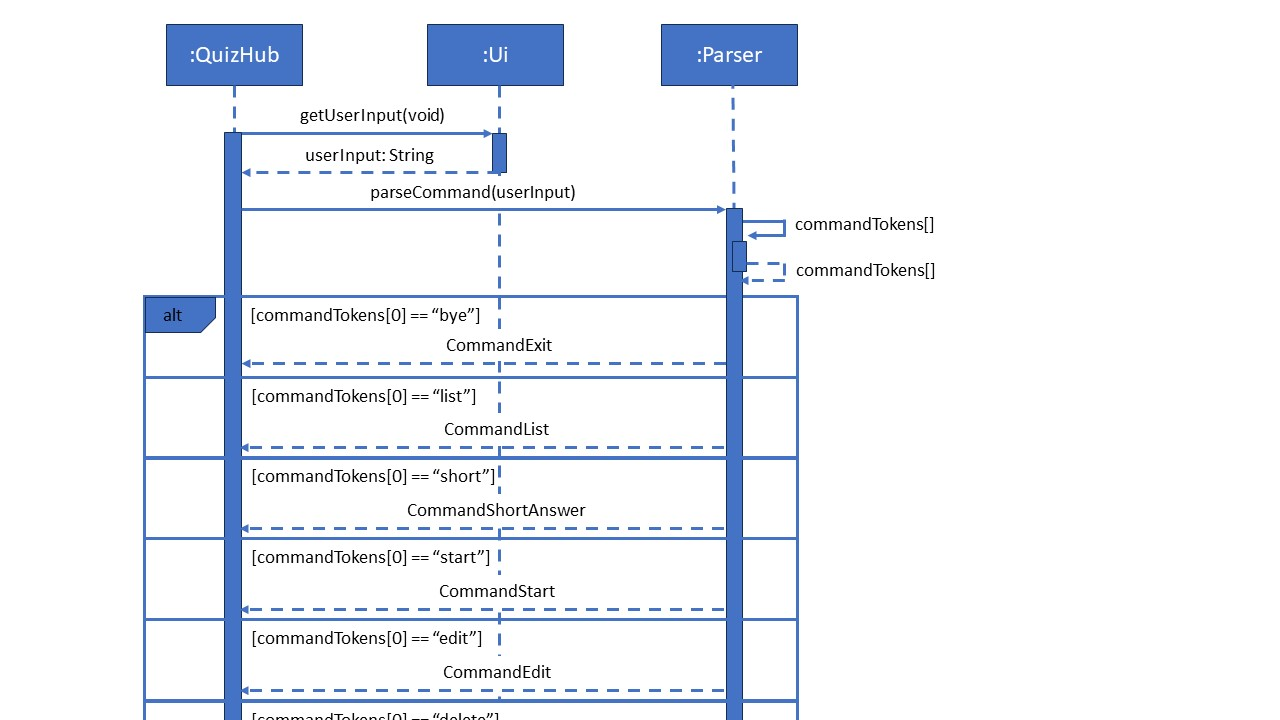
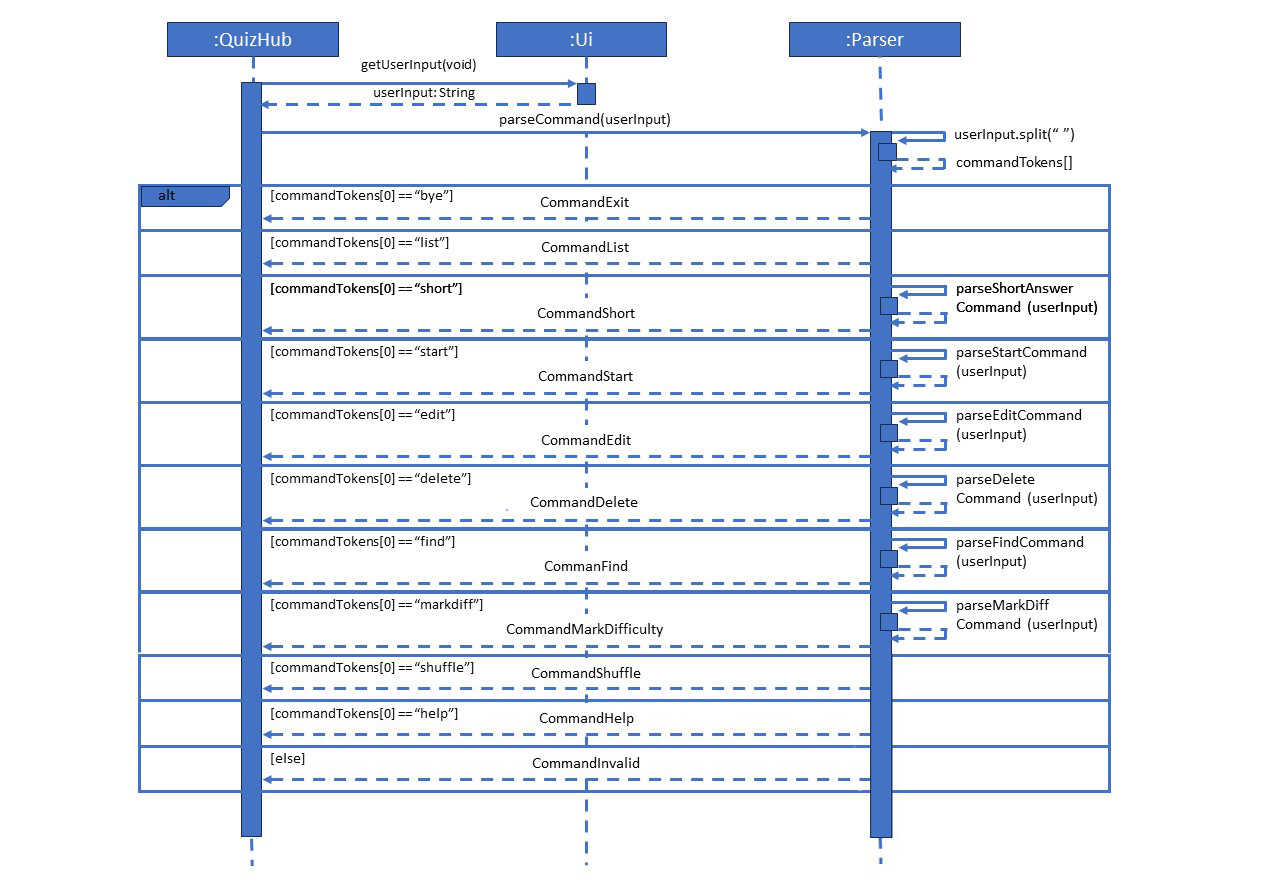
Updated parser parseCommand sequence diagram

Changed region(s): [[0.0938, 0.0, 0.875, 1.0]]

diff --git a/docs/DeveloperGuide.md b/docs/DeveloperGuide.md
@@ -172,7 +172,7 @@ very start of the user input.
 
 The following sequence diagram shows the implementation of `parseCommand`.
 
-![](./UML/parser.png)
+![](./UML/Parser.jpg)
 
 `getContentAfterKeyword`
 
